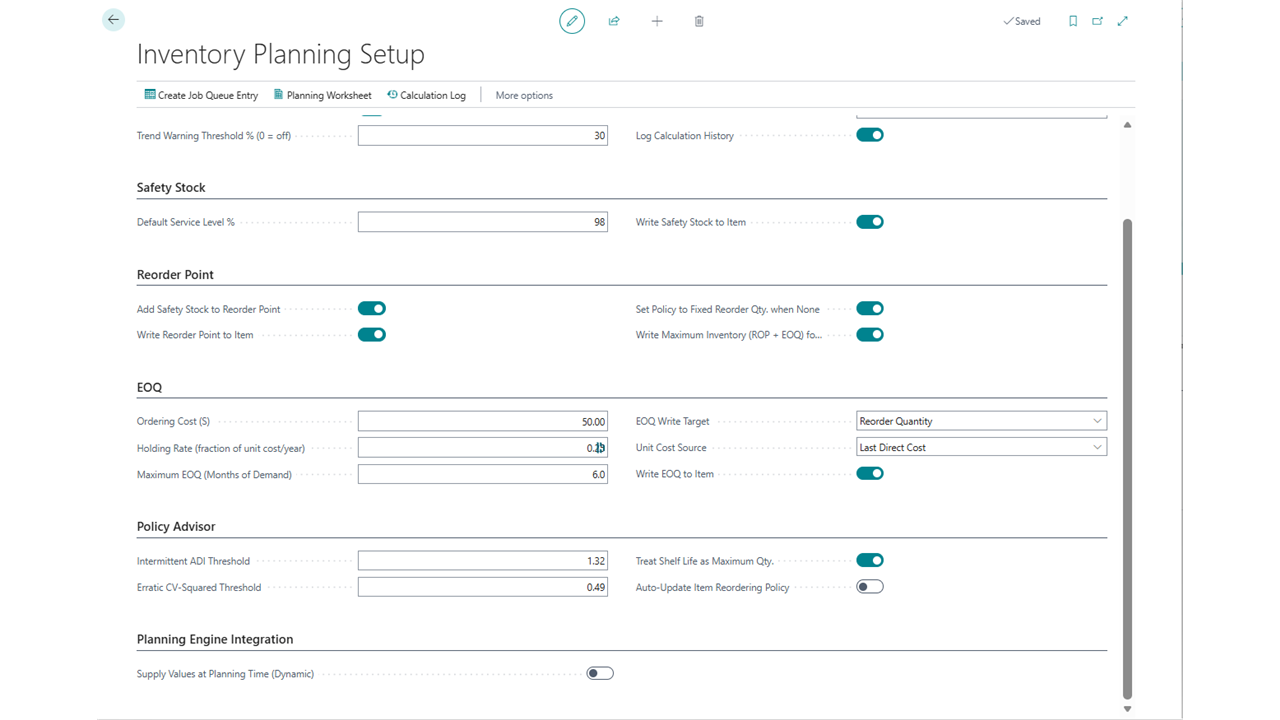
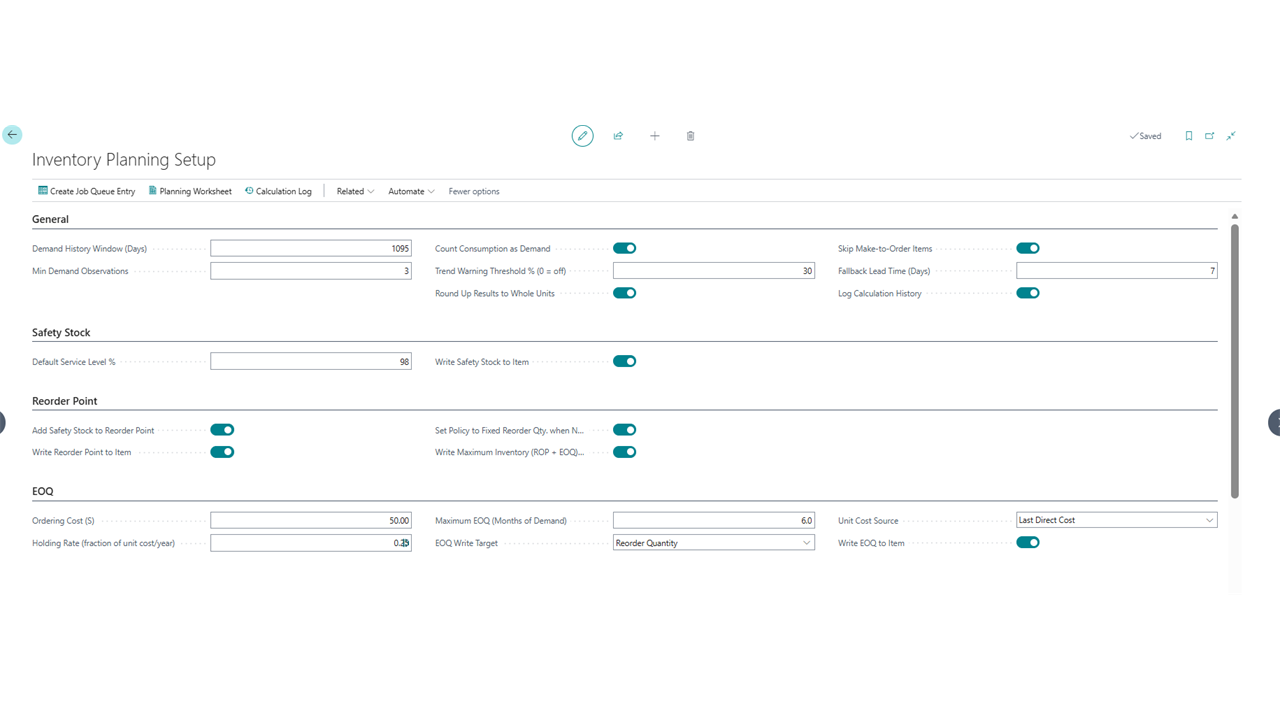
All five listing screenshots ready
The setup capture now shows General through EOQ with no Role Center bleed.
Policy Advisor and Planning Engine Integration fall below the fold, which keeps
the text legible - the four groups shown are the ones an evaluator reads.

diff --git a/docs/screenshots/README.md b/docs/screenshots/README.md
@@ -20,17 +20,21 @@ most visitors never scroll past it.
 | # | File | Status | Caption |
 |---|---|---|---|
 | 01 | `01-planning-worksheet.png` | **ready** | Review current versus proposed values for a filtered set of items, then apply only the lines you select. |
-| 02 | `02-setup.png` | **re-shoot** — General group scrolled off the top | One setup page for all four calculators — service level, costs, thresholds and write targets. |
+| 02 | `02-setup.png` | **ready** | One setup page for all four calculators — history window, service level, costs and write targets. |
 | 03 | `03-calculation-log.png` | **ready** | Every calculation records the statistics, lead time and previous value behind it. |
 | 04 | `04-item-card.png` | **ready** | Every calculator, per item, from the Item Card. |
 | 05 | `05-result-message.png` | **ready** | The app flags when a result deserves review — here, demand too intermittent for the method to be reliable. |
 
-### 02 — what to change
+### 02 — note
 
-Maximise the page (⤢ top right) so it does not open over the Role Center, press
-Ctrl+- until all six group headers fit, and scroll to the very top. General is
-the group that matters most to an evaluator and it is currently above the fold.
-The crop already removes the Role Center bleed and the Windows taskbar.
+Policy Advisor and Planning Engine Integration sit below the fold. That is the
+right trade: General, Safety Stock, Reorder Point and EOQ are what an evaluator
+reads, and squeezing all six in would have made the text too small.
+
+The values shown are the demo settings — 1095-day window, 3 minimum
+observations — not the shipped defaults of 365 and 20. That matches the
+"evaluating on demo data" note in the Partner Center getting started
+instructions, so the two are consistent.
 
 ### 03 — optional tidy
 
